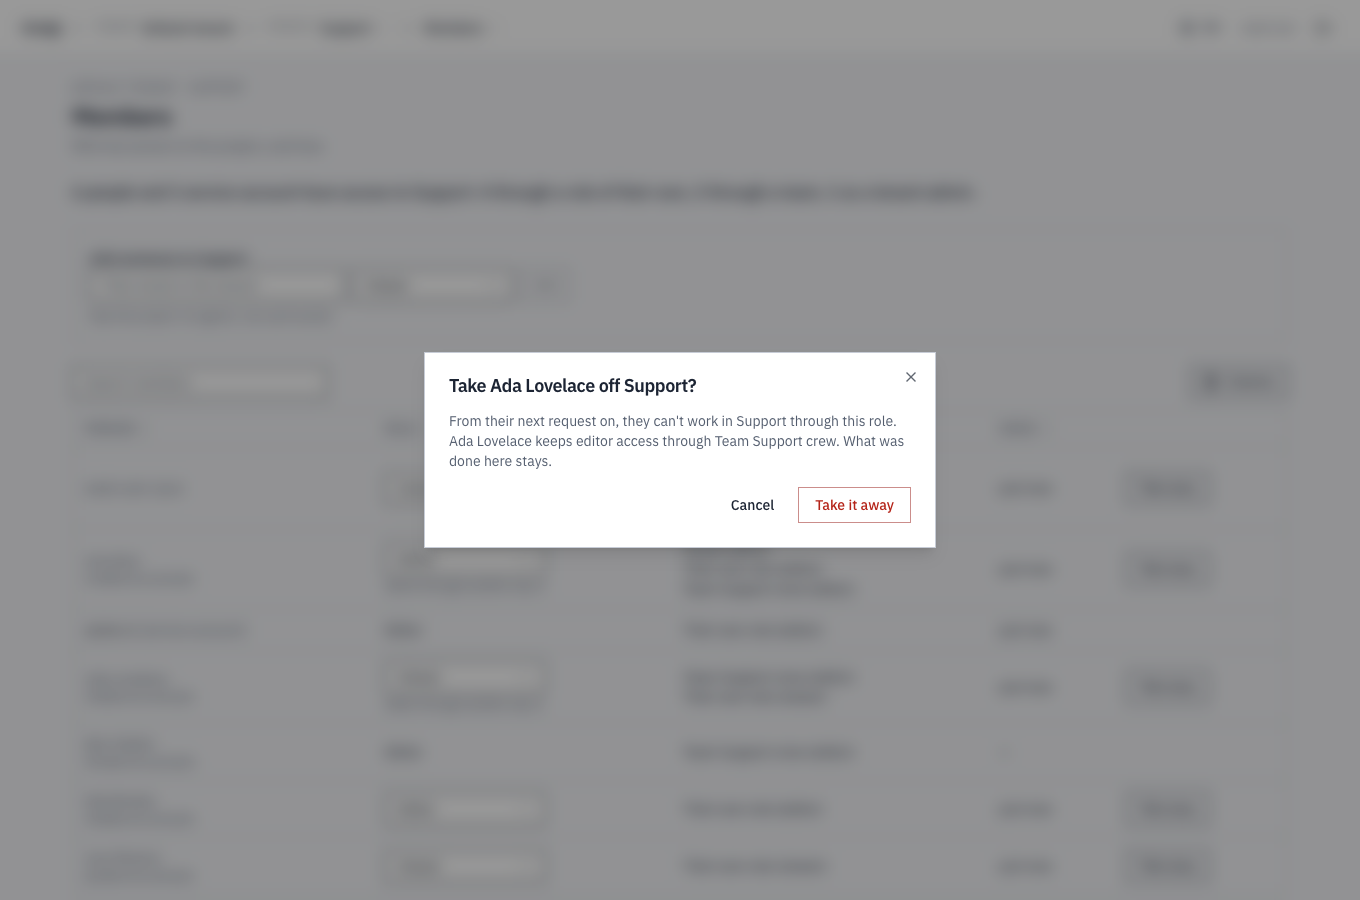
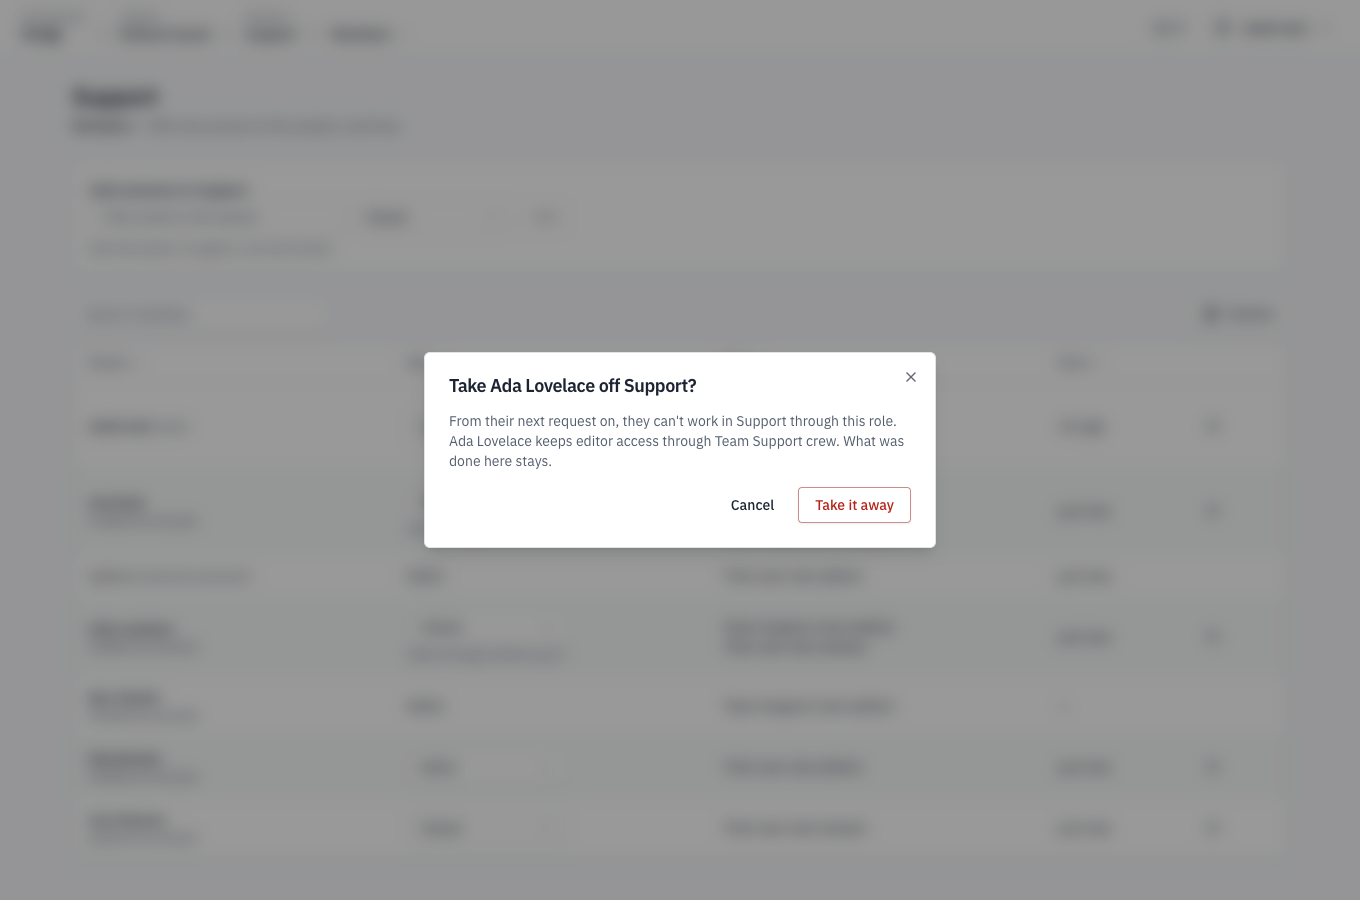
docs(console): retake the access, people, teams and approvals shots
Fourteen shots from today's console: Members, Take away, a viewer's
project and My access; the tenant's home, People, a person's page and Add
a person; Teams and a team's page; and an approval to decide, a withdrawn
one, Reviewers and the reviewer Remove dialog, which is new. The alts
follow what they show: no count lines, row actions as icons named in a
tooltip, and agents named in words. The pages say the same: a team's page
lists who is in it, Take away, Take out and a reviewer's Remove are icons,
Add a person says how they'll sign in, and an inbox step names the agent.

diff --git a/site/src/content/docs/deploy/authorization.md b/site/src/content/docs/deploy/authorization.md
@@ -261,7 +261,7 @@ checks every call.
   - the Inbox and Approvals, to reviewers;
   - Teams, to tenant admins and anyone in a team.
 
-![A project's Agents page as Gus Moreno, a viewer of Support: under the header, "You can view this project; changes need an editor."; the agents list (Support agent, acme.support, version 1.0.0) with no buttons.](../../../assets/access/viewer-project.png)
+![A project's Agents page as Gus Moreno, a viewer of Support: under the header, "You can view this project; changes need an editor."; the agents list (Support agent, version 1.0.0, no tools, $0.00 in the last 30 days) with no buttons.](../../../assets/access/viewer-project.png)
 
 **My access**, in the tenant's sections, is what you may do and how you
 have it. It starts with a sentence, such as "You're an editor in 1
@@ -272,7 +272,7 @@ lets you do and doesn't. You can have a role directly, through a team, as an
 admin of the org, or as a tenant admin. **The detail** holds your ids and
 what each role allows on each kind of object.
 
-![My access as Eda Brooks: "You're an editor in 1 project." and "Tenant: member. Its people, keys and settings are its admins'."; a table with Support, Editor, directly, and what it lets her do: "run agents and flows, work on agent versions, publish data blocks, judge runs, compare versions on test sets; not promote versions, register agents and tools, build test sets, rescore comparisons, set judge classes"; and The detail, closed.](../../../assets/access/my-access.png)
+![My access as Eda Brooks: "You're an editor in 1 project." and "Tenant: member. Its people, keys and settings are its admins'."; an Any role filter and a table with Support, Editor, directly, and what it lets them do: "run agents and flows, work on agent versions, publish prompts and settings, judge runs, compare versions on test sets; not promote versions, register agents and tools, build test sets, rescore comparisons, set judge classes"; and The detail, closed.](../../../assets/access/my-access.png)
 
 ## Project memberships
 
@@ -335,16 +335,16 @@ team**: "A group of people, run by its admins: they decide who is in it.
 You add the first people on its page." It takes a name, a slug ("Lowercase
 letters, digits and hyphens; unique in the tenant.") and what the team is.
 
-![The Teams page as a tenant admin: "1 team.", Support crew (support-crew, "First-line support"), a New team button, and under the list "The console doesn't give a team a role on a project yet: the API does (team grants)."](../../../assets/teams/teams.png)
+![The Teams page as a tenant admin: a New team button, Columns, Support crew (support-crew, "First-line support"), and under the list "The console doesn't give a team a role on a project yet: the API does (team grants)."](../../../assets/teams/teams.png)
 
-A team's page, for its admins and tenant admins, says how many are in it
-and how many run it, such as "4 people, 2 run it.", and lists them with
+A team's page, for its admins and tenant admins, lists who is in it, with
 their role and since when. There they rename it, and the slug stays. They
-change someone's role, take someone out, which asks first, and add someone
-from the tenant's people. Finding a person reads the tenant's people, so
-adding someone takes a tenant admin.
+change someone's role, take someone out (the icon on their row, named in
+its tooltip; it asks first), and add someone from the tenant's people.
+Finding a person reads the tenant's people, so adding someone takes a
+tenant admin.
 
-![Support crew's page as a tenant admin: "4 people, 2 run it." and "The console doesn't give a team a role on a project yet: the API does (team grants)."; Add someone to Support crew (a person, a role, Add); and the list: the seed user and Ana Ruiz (admins), Ben Okafor and Ada Lovelace (members), each with a role to change and Take out; a Rename button.](../../../assets/teams/team.png)
+![Support crew's page as a tenant admin: "First-line support", a Rename button and "The console doesn't give a team a role on a project yet: the API does (team grants)."; Add someone to Support crew (a person, a role, Add); and the list: the seed user and Ana Ruiz (admins), Ben Okafor and Ada Lovelace (members), each with a role to change and Take out as an icon.](../../../assets/teams/team.png)
 
 Anyone else in the team sees it, but not who else is in it: "You're in it.
 Who is in Support crew is shown to its admins."
@@ -462,7 +462,7 @@ It lists each one, with their role and every way in: "Their own role
 way the console can't name reads "Another way in". Emails show to the
 project's admins.
 
-![Support's Members page as a tenant admin: "6 people and 1 service account have access to Support: 4 through a role of their own, 2 through a team, 1 as a tenant admin."; an Add someone to Support form (an email, a role, Add); and the list: the seed user (owner; their own role, tenant admin, Team Support crew), Ana Ruiz (her own role editor, "admin through another way in"; tenant admin, Team Support crew), acme-ci (service account, editor), Ada Lovelace (her own role viewer, "editor through another way in"; Team Support crew (editor)), Ben Okafor (editor through Team Support crew), Eda Brooks (editor) and Gus Moreno (viewer), with Take away beside each role of someone's own.](../../../assets/access/members.png)
+![Support's Members page as a tenant admin: an Add someone to Support form (their email in this tenant, a role, Viewer, with "Sees the project: its agents, runs and records.", and Add), a search box and Columns; and the list: the seed user (owner; their own role, tenant admin, Team Support crew (editor)), Ana Ruiz (their own role editor, "admin through another way in"; tenant admin, Team Support crew), acme-ci (service account, editor), Ada Lovelace (their own role viewer, "editor through another way in"; Team Support crew (editor)), Ben Okafor (editor through Team Support crew), Eda Brooks (editor) and Gus Moreno (viewer), with Take away as an icon beside each role of someone's own.](../../../assets/access/members.png)
 
 A project admin changes who works there:
 
@@ -473,10 +473,10 @@ A project admin changes who works there:
   more, it says so under it, such as "editor through another way in". A
   role through a team, an org or tenant admin is changed where it comes
   from, and a service account's on its own page.
-- **Take away** a person's role of their own. It asks first, and says what
-  stays:
+- **Take away** a person's role of their own, with the icon on their row,
+  named in its tooltip. It asks first, and says what stays:
 
-![The Take away step: "Take Ada Lovelace off Support? From their next request on, they can't work in Support through this role. Ada Lovelace keeps editor access through Team Support crew. What was done here stays.", with Cancel and Take it away.](../../../assets/access/members-take-away.png)
+![The Take away step over the Members page: "Take Ada Lovelace off Support? From their next request on, they can't work in Support through this role. Ada Lovelace keeps editor access through Team Support crew. What was done here stays.", with Cancel and Take it away.](../../../assets/access/members-take-away.png)
 
 An editor reads the same list, with "Only an admin of Support changes who
 works here." A viewer doesn't see the section. At its address, they read

diff --git a/site/src/content/docs/deploy/people-and-keys.md b/site/src/content/docs/deploy/people-and-keys.md
@@ -394,14 +394,16 @@ directly: what a team's role gives on a project isn't listed there. A
 search box, sorting, **People who were removed** and **Columns** narrow and
 order the list, and the page's address keeps them.
 
-![The People page: "8 people in this tenant", a People who were removed checkbox, Columns and Add a person; each person with their email, their access in words (the seed user: tenant admin, owner on Support and Billing, admin of team Support crew, admin reviewer; Ada Lovelace: reads the tenant's settings, viewer on Support, member of team Support crew, standard reviewer; Sam Rivera: reads the tenant's settings), their active keys, when they were last active and when they were added.](../../../assets/people/people.png)
+![The People page: Add a person, a People who were removed checkbox and Columns; each person with their email, their access in words (the seed user: tenant admin, owner on Support and Billing, admin of team Support crew, admin reviewer; Ada Lovelace: reads the tenant's settings, viewer on Support, member of team Support crew, standard reviewer; Sam Rivera: reads the tenant's settings), their active keys, when they were last active and when they were added; and under the list, that access is what each was granted directly.](../../../assets/people/people.png)
 
 **Add a person** adds someone with their access in one step: "Give them
-their access now, in the same step." It takes a name, an optional email
-("One person per email in this tenant."), project roles, teams, a reviewer
-tier, and tenant admin.
+their access now, in the same step." It says how they'll sign in: through
+the deployment's identity provider or an emailed link, when either is on,
+or with an API key you make them on their page. It takes a name, an
+optional email ("One person per email in this tenant."), project roles,
+teams, a reviewer tier, and tenant admin.
 
-![The Add a person dialog: a name and an email, a viewer role on Billing, the team Support crew as a member, no reviewer role, and the Tenant admin checkbox, with an Add button.](../../../assets/people/add-person.png)
+![The Add a person dialog, saying how they'll sign in: the name Lee Chen and an email, a viewer role on Billing, the team Support crew as a member, no reviewer role, and the Tenant admin checkbox, with an Add button.](../../../assets/people/add-person.png)
 
 Each part is a step of its own. When they all work, the person's page
 opens. When one doesn't, the dialog says how each went:
@@ -433,7 +435,7 @@ what they did there, stay." The page also lists their keys, with **Make a
 key for** them, where they're signed in, their sign-ins, and **Remove from
 the tenant**.
 
-![Ada Lovelace's page as a tenant admin: "1 active key acts as Ada Lovelace" with Make a key for Ada Lovelace; What they may do: Support (viewer) and Support crew (member), each with Take away; Reviewer: Standard, with Take off the roster; Tenant admin: No, with Make tenant admin; Give access (a project, a role); then Signed in, Their keys (ada-laptop, expiring in 3 days, with Revoke), Sign-ins, and Remove from the tenant.](../../../assets/people/person.png)
+![Ada Lovelace's page as a tenant admin: "1 active key acts as Ada Lovelace", their email and when they were added, with Make a key for Ada Lovelace; What they may do: Support (viewer) and Support crew (member), each with Take away; Reviewer: Standard, with Take off the roster; Tenant admin: No, with Make tenant admin; Give access (a project, a role); then Signed in, Their keys (ada-laptop, expiring 17 Oct 2026, with Revoke as an icon), Sign-ins, and Remove from the tenant.](../../../assets/people/person.png)
 
 ### What needs you
 
@@ -450,7 +452,7 @@ A tenant admin's home in the tenant starts with what needs a look, such as
   recorded as denied, with **All refused requests**. "Someone refused may be
   missing access they need."
 
-![The tenant's home as a tenant admin. What needs you: "8 people in 3 projects and 1 team. 3 people have no project of their own; 1 key expires this week."; No project of their own: Ben Okafor, Sam Rivera and Eddie Park; Keys: "ada-laptop expires in 3 d"; Recently refused: a person refused admin on the tenant, just now. Below: the projects, and the tenant's sections.](../../../assets/people/tenant-home.png)
+![The tenant's home as a tenant admin. What needs you: "8 people in 3 projects and 1 team. 3 people have no project of their own; 1 key expires this week."; No project of their own: Ben Okafor, Sam Rivera and Eddie Park; Keys: "ada-laptop expires in 3d"; Recently refused: a user, shown by id, refused admin on the tenant, just now. Below: the projects, and the tenant's sections.](../../../assets/people/tenant-home.png)
 
 It counts everyone, and never says all is clear before it has read
 everything. While a read is still coming in, it says so, such as "Still
